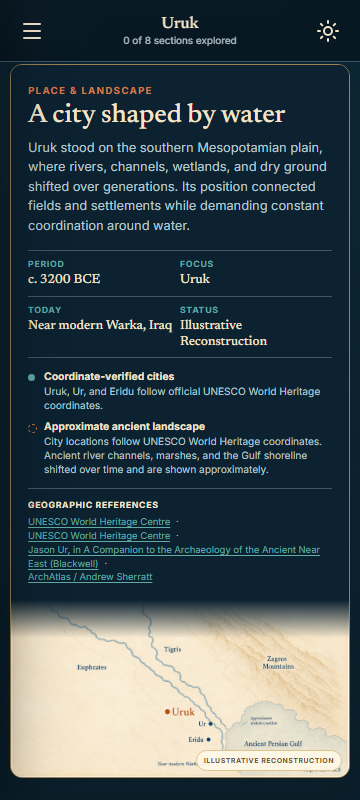
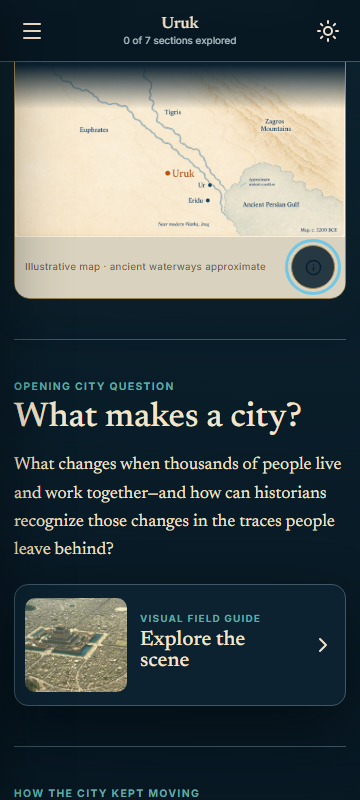
Add compact map context and restore verification

diff --git a/src/learn/learn.css b/src/learn/learn.css
@@ -44,6 +44,9 @@ h1,h2,h3{font-family:Newsreader,Georgia,serif;font-weight:500}
 .evidence-module{display:grid;grid-template-columns:minmax(280px,.9fr) 1.2fr;margin:0;border:1px solid var(--line);border-radius:14px;overflow:hidden;background:var(--surface);box-shadow:var(--shadow)}.evidence-image{position:relative;min-height:340px;background:#d9cdb9}.evidence-image img{width:100%;height:100%;position:absolute;inset:0;object-fit:cover}.evidence-image>span{position:absolute;left:14px;bottom:14px;border-radius:99px;padding:7px 10px;background:var(--teal);color:#fff;text-transform:uppercase;letter-spacing:.1em;font-size:.58rem;font-weight:700}.evidence-module figcaption{padding:28px}.evidence-type{display:flex;align-items:center;gap:8px;color:var(--teal);text-transform:uppercase;letter-spacing:.12em;font-size:.61rem;font-weight:700}.evidence-type svg{width:18px}.evidence-module h3{font-size:2rem;line-height:1.05;margin:12px 0 10px}.evidence-module figcaption>p{font-size:.89rem;line-height:1.6;color:var(--muted)}.evidence-module dl{margin:19px 0 0;border-top:1px solid var(--line)}.evidence-module dl>div{display:grid;grid-template-columns:105px 1fr;gap:12px;padding:8px 0;border-bottom:1px solid var(--line);font-size:.68rem}.evidence-module dt{text-transform:uppercase;letter-spacing:.08em;font-weight:700;color:var(--ink)}.evidence-module dd{margin:0;color:var(--muted);text-transform:capitalize}
 .historical-map{margin:4px 0 0}.historical-map>img{display:block;width:100%;height:auto;border:1px solid color-mix(in srgb,var(--gold) 55%,var(--line));border-radius:16px;background:#f5ead2;box-shadow:0 18px 44px #4b321c12}
 .section-has-historical-map .section-modules{position:relative;display:grid;grid-template-columns:minmax(280px,.72fr) minmax(0,1.28fr);gap:0;overflow:hidden;border:1px solid color-mix(in srgb,var(--gold) 58%,var(--line));border-radius:16px;background:var(--surface);box-shadow:0 18px 44px #4b321c12}.section-has-historical-map .knowledge-block{position:relative;z-index:2;display:block;align-self:stretch;min-width:0;padding:27px 16px 25px 26px;border:0;border-radius:0;background:var(--surface);box-shadow:none}.section-has-historical-map .knowledge-block:after{content:"";position:absolute;z-index:-1;top:0;bottom:0;left:100%;width:86px;background:linear-gradient(90deg,var(--surface) 12%,transparent);pointer-events:none}.section-has-historical-map .knowledge-block dl{display:grid;grid-template-columns:1fr;gap:0;margin:18px 0 0;border:0;border-top:1px solid var(--line);border-radius:0;background:transparent}.section-has-historical-map .knowledge-block dl>div{display:grid;grid-template-columns:82px 1fr;gap:10px;padding:9px 0;border-bottom:1px solid var(--line);background:transparent}.section-has-historical-map .knowledge-block dl>div:last-child{border-bottom:0}.section-has-historical-map .knowledge-block dd{margin:0}.section-has-historical-map .historical-map{z-index:1;min-width:0;margin:0;background:#f5ead2}.section-has-historical-map .historical-map>img{width:100%;height:100%;min-height:340px;object-fit:cover;object-position:right center;border:0;border-radius:0;box-shadow:none}
+.section-has-historical-map .historical-map{display:flex;flex-direction:column;justify-content:center}.section-has-historical-map .historical-map>img{width:100%;height:auto;min-height:0;aspect-ratio:1732/908;object-fit:contain;object-position:center}
+.historical-map__meta{display:flex;align-items:center;justify-content:space-between;gap:10px;padding:8px 10px 9px;background:color-mix(in srgb,#f5ead2 88%,var(--surface));color:#6f573a;font-size:.61rem;line-height:1.25;letter-spacing:.035em}.historical-map__meta>span{min-width:0}.historical-map__meta button,.historical-map__dialog-header button{display:grid;flex:0 0 auto;width:32px;height:32px;padding:0;place-items:center;border:1px solid color-mix(in srgb,var(--gold) 65%,var(--line));border-radius:50%;background:color-mix(in srgb,var(--surface) 88%,transparent);color:var(--archive);cursor:pointer}.historical-map__meta button svg,.historical-map__dialog-header button svg{width:15px;height:15px}
+.historical-map__dialog{width:min(560px,calc(100vw - 32px));max-height:min(720px,calc(100dvh - 32px));padding:0;overflow:hidden;border:1px solid color-mix(in srgb,var(--gold) 58%,var(--line));border-radius:18px;background:var(--surface);color:var(--ink);box-shadow:0 28px 90px #081d2f66}.historical-map__dialog::backdrop{background:#081d2fb3;backdrop-filter:blur(3px)}.historical-map__dialog-header{display:flex;align-items:flex-start;justify-content:space-between;gap:20px;padding:22px 22px 15px;border-bottom:1px solid var(--line)}.historical-map__dialog-header span{color:var(--bronze);text-transform:uppercase;letter-spacing:.13em;font-size:.61rem;font-weight:700}.historical-map__dialog-header h3{margin:5px 0 0;font-size:1.8rem}.historical-map__dialog-body{max-height:calc(min(720px,100dvh - 32px) - 84px);padding:18px 22px 24px;overflow:auto;overscroll-behavior:contain}.historical-map__dialog-body>p{margin:0;color:var(--muted);font-size:.86rem;line-height:1.58}.historical-map__dialog-body dl{display:grid;grid-template-columns:repeat(3,minmax(0,1fr));margin:18px 0 4px;border-block:1px solid var(--line)}.historical-map__dialog-body dl>div{min-width:0;padding:10px 8px 10px 0}.historical-map__dialog-body dt,.historical-map__dialog-body h4{color:var(--teal);text-transform:uppercase;letter-spacing:.09em;font-size:.59rem;font-weight:700}.historical-map__dialog-body dd{margin:4px 0 0;font:500 .88rem/1.3 Newsreader,serif}.historical-map__dialog-body section{padding-top:14px}.historical-map__dialog-body h4{margin:0 0 5px}.historical-map__dialog-body section p{margin:0;color:var(--muted);font-size:.78rem;line-height:1.5}.historical-map__sources ul{display:grid;gap:8px;margin:0;padding:0;list-style:none}.historical-map__sources li{display:grid}.historical-map__sources a{color:var(--teal);font-size:.78rem;font-weight:600;text-underline-offset:2px}.historical-map__sources li span{color:var(--muted);font-size:.66rem}
 .sr-only{position:absolute!important;width:1px!important;height:1px!important;padding:0!important;margin:-1px!important;overflow:hidden!important;clip:rect(0,0,0,0)!important;white-space:nowrap!important;border:0!important}
 .section-prompt{padding-top:60px}.section-prompt .section-heading{padding-bottom:18px;border-bottom:1px solid var(--line)}.prompt{border:1px solid var(--line);background:var(--surface);border-radius:14px;padding:23px;margin:0}.prompt legend,.prompt>label>strong{font:500 1.32rem/1.35 Newsreader,serif;color:var(--ink)}.prompt label{display:flex;gap:11px;align-items:flex-start;padding:10px 0;min-height:44px;font-size:.86rem}.prompt input{width:19px;height:19px;accent-color:var(--teal)}.prompt textarea{width:100%;min-height:120px;border:1px solid var(--line);border-radius:9px;background:var(--page);color:var(--ink);padding:13px;margin:14px 0 6px;font-size:.9rem}.prompt>small{color:var(--muted);font-size:.7rem}.feedback{border-left:3px solid var(--teal);background:color-mix(in srgb,var(--teal) 10%,var(--surface));padding:12px 14px;line-height:1.5;font-size:.8rem}
 .resume-banner{width:min(980px,calc(100% - 56px));margin:18px auto -20px;padding:13px 16px;background:var(--surface);border:1px solid var(--line);border-radius:10px;display:flex;align-items:center;justify-content:space-between;box-shadow:var(--shadow)}.resume-banner span{display:block;color:var(--muted);font-size:.78rem}
@@ -59,3 +62,5 @@ h1,h2,h3{font-family:Newsreader,Georgia,serif;font-weight:500}
 .card-reveal{scroll-margin-top:76px}
 @media(max-width:700px){.section-has-historical-map .section-modules{grid-template-columns:1fr}.section-has-historical-map .knowledge-block{padding:22px 19px 16px}.section-has-historical-map .knowledge-block:after{z-index:1;top:100%;bottom:auto;left:0;width:100%;height:44px;background:linear-gradient(180deg,var(--surface),transparent)}.section-has-historical-map .historical-map{margin-top:-1px}.section-has-historical-map .historical-map>img{height:auto;min-height:0;object-fit:contain}}
 @media(max-width:620px){.historical-map{margin-inline:-4px}.historical-map>img{border-radius:12px}.section-has-historical-map .historical-map{margin-inline:0}.section-has-historical-map .historical-map>img{border-radius:0}}
+@media(max-width:620px){.historical-map__dialog{width:100%;max-width:none;max-height:86dvh;margin:auto 0 0;border-width:1px 0 0;border-radius:18px 18px 0 0}.historical-map__dialog-header{padding:18px 17px 13px}.historical-map__dialog-body{max-height:calc(86dvh - 78px);padding:16px 17px 24px}.historical-map__dialog-body dl{grid-template-columns:1fr}.historical-map__dialog-body dl>div{display:grid;grid-template-columns:72px 1fr;gap:8px;padding:8px 0;border-bottom:1px solid var(--line)}.historical-map__dialog-body dl>div:last-child{border-bottom:0}.historical-map__dialog-body dd{margin:0}}
+@media(max-width:620px){.historical-map__meta button{width:44px;height:44px}.historical-map__meta button svg{width:17px;height:17px}}

diff --git a/tests/learn/LearnApp.test.tsx b/tests/learn/LearnApp.test.tsx
@@ -25,7 +25,7 @@ describe('Learn route and interactions', () => {
   it('parses the stable route and rejects unrelated paths', () => { expect(lessonIdFromPath('/learn/lesson.uruk.first-city')).toBe('lesson.uruk.first-city'); expect(lessonIdFromPath('/legacy')).toBeNull(); });
   it('renders an invalid lesson state', () => { render(<LearnApp lessonId="lesson.unknown" />); expect(screen.getByRole('heading', { name: /archive entry isn’t available/i })).toBeTruthy(); });
   it('renders the decoded-asset contract and typed editorial modules', async () => { const gateway = new TestGateway(); render(<LearnApp lessonId="lesson.uruk.first-city" gatewayFactory={async () => gateway} />); expect(await screen.findByRole('heading', { name: 'Uruk: Life in an Early City' })).toBeTruthy(); const hero = document.querySelector('.hero-image'); expect(hero?.getAttribute('aria-label')).toMatch(/aerial evidence-based reconstruction/i); expect(hero?.getAttribute('style')).toContain('/images/places/uruk-reconstruction.webp'); const probe = document.querySelector('.hero-probe'); expect(probe?.getAttribute('src')).toBe('/images/places/uruk-reconstruction.webp'); expect(probe?.getAttribute('width')).toBe('1600'); expect(probe?.getAttribute('height')).toBe('800'); expect(screen.getByText('City at a glance')).toBeTruthy(); expect(screen.getAllByText('From the evidence room')).toHaveLength(2); expect(screen.getByText(/records and ideas could travel beyond one person’s memory/i)).toBeTruthy(); expect(screen.queryByRole('heading', { name: 'Connections' })).toBeNull(); expect(screen.getByRole('heading', { name: 'World Check' })).toBeTruthy(); });
-  it('renders the generated historical map inside the opening content card', async () => { const gateway = new TestGateway(); render(<LearnApp lessonId="lesson.uruk.first-city" gatewayFactory={async () => gateway} />); await screen.findByRole('heading', { name: 'Uruk: Life in an Early City' }); const image=screen.getByAltText(/Illustrated map of the southern Mesopotamian plain/i);expect(image.getAttribute('src')).toBe('/images/maps/uruk-southern-mesopotamia-map.webp');expect(image.getAttribute('width')).toBe('1732');expect(image.getAttribute('height')).toBe('908');expect(image.closest('[data-section-id]')?.getAttribute('data-section-id')).toBe('section.uruk.masthead');expect(screen.queryByRole('button',{name:'A city shaped by water'})).toBeNull(); });
+  it('renders the generated historical map and opens its canonical context disclosure', async () => { const gateway = new TestGateway(); render(<LearnApp lessonId="lesson.uruk.first-city" gatewayFactory={async () => gateway} />); await screen.findByRole('heading', { name: 'Uruk: Life in an Early City' }); const image=screen.getByAltText(/Illustrated map of the southern Mesopotamian plain/i);expect(image.getAttribute('src')).toBe('/images/maps/uruk-southern-mesopotamia-map.webp');expect(image.getAttribute('width')).toBe('1732');expect(image.getAttribute('height')).toBe('908');expect(image.closest('[data-section-id]')?.getAttribute('data-section-id')).toBe('section.uruk.masthead');expect(screen.getByText('Illustrative map · ancient waterways approximate')).toBeTruthy();expect(image.closest('figure')?.getAttribute('aria-describedby')).toBe('module.uruk.southern-mesopotamia-map-summary');const trigger=screen.getByRole('button',{name:/About this map/i});await userEvent.click(trigger);const dialog=screen.getByRole('dialog');expect(dialog.hasAttribute('open')).toBe(true);expect(screen.getByText(/official UNESCO World Heritage coordinates/i)).toBeTruthy();expect(screen.getByText(/Near modern Warka, Iraq/i)).toBeTruthy();expect(screen.getAllByRole('link').some((link)=>link.getAttribute('href')==='https://whc.unesco.org/en/list/1481/maps/')).toBe(true);fireEvent.keyDown(dialog,{key:'Escape'});expect(dialog.hasAttribute('open')).toBe(false);expect(document.activeElement).toBe(trigger); });
   it('opens the native Explore the Scene field guide', async () => { const gateway = new TestGateway(); render(<LearnApp lessonId="lesson.uruk.first-city" gatewayFactory={async () => gateway} />); await screen.findByRole('heading', { name: 'Uruk: Life in an Early City' }); const title = screen.getByText('Explore the scene'); const details = title.closest('details'); expect(details?.hasAttribute('open')).toBe(false); await userEvent.click(title); expect(details?.hasAttribute('open')).toBe(true); expect(screen.getByText('Monumental precinct')).toBeTruthy(); });
   it('offers retry after progress load failure', async () => { const gateway = new TestGateway(); gateway.load.mockRejectedValueOnce(new Error('offline')).mockResolvedValueOnce(gateway.state); render(<LearnApp lessonId="lesson.uruk.first-city" gatewayFactory={async () => gateway} />); await screen.findByRole('button', { name: 'Retry loading progress' }); await userEvent.click(screen.getByRole('button', { name: 'Retry loading progress' })); expect(await screen.findByRole('heading', { name: 'Uruk: Life in an Early City' })).toBeTruthy(); expect(gateway.load).toHaveBeenCalledTimes(2); });
   it('closes the mobile drawer with Escape and returns focus', async () => { const gateway = new TestGateway(); render(<LearnApp lessonId="lesson.uruk.first-city" gatewayFactory={async () => gateway} />); await screen.findByRole('heading', { name: 'Uruk: Life in an Early City' }); const open = screen.getByRole('button', { name: 'Open journey' }); await userEvent.click(open); expect(screen.getByRole('dialog', { name: 'World History journey' })).toBeTruthy(); fireEvent.keyDown(document, { key: 'Escape' }); expect(open).toBe(document.activeElement); });

diff --git a/src/learn/HistoricalMapModule.tsx b/src/learn/HistoricalMapModule.tsx
@@ -1,7 +1,72 @@
-import type { HistoricalMapModule as HistoricalMapData, MediaAsset } from '../domains/contracts';
+import { Info, X } from 'lucide-react';
+import { useRef } from 'react';
+import type { HistoricalMapModule as HistoricalMapData, MediaAsset, Source } from '../domains/contracts';
 
-export function HistoricalMapModule({ module, media }: { module: HistoricalMapData; media: MediaAsset }) {
-  return <figure className="historical-map" aria-label={module.title}>
+type HistoricalMapModuleProps = {
+  module: HistoricalMapData;
+  media: MediaAsset;
+  sources: Source[];
+};
+
+export function HistoricalMapModule({ module, media, sources }: HistoricalMapModuleProps) {
+  const triggerRef = useRef<HTMLButtonElement>(null);
+  const dialogRef = useRef<HTMLDialogElement>(null);
+  const summaryId = `${module.id}-summary`;
+  const dialogTitleId = `${module.id}-dialog-title`;
+  const dialogDescriptionId = `${module.id}-dialog-description`;
+
+  const openDialog = () => {
+    const dialog = dialogRef.current;
+    if (!dialog) return;
+    if (typeof dialog.showModal === 'function') dialog.showModal();
+    else {
+      dialog.setAttribute('open', '');
+      dialog.querySelector<HTMLButtonElement>('button')?.focus();
+    }
+  };
+
+  const closeDialog = () => {
+    const dialog = dialogRef.current;
+    if (!dialog) return;
+    if (typeof dialog.close === 'function') dialog.close();
+    else {
+      dialog.removeAttribute('open');
+      triggerRef.current?.focus();
+    }
+  };
+
+  return <figure className="historical-map" aria-label={module.title} aria-describedby={summaryId}>
     <img src={media.path} alt={media.alt} width="1732" height="908" loading="lazy" decoding="async" />
+    <figcaption className="historical-map__meta">
+      <span>{module.compactLabel}</span>
+      <button ref={triggerRef} type="button" onClick={openDialog} aria-label={`About this map: ${module.title}`}>
+        <Info aria-hidden="true" />
+      </button>
+    </figcaption>
+    <p id={summaryId} className="sr-only">{module.accessibleSummary}</p>
+    <dialog
+      ref={dialogRef}
+      className="historical-map__dialog"
+      aria-labelledby={dialogTitleId}
+      aria-describedby={dialogDescriptionId}
+      onClose={() => triggerRef.current?.focus()}
+      onKeyDown={(event) => { if (event.key === 'Escape') { event.preventDefault(); closeDialog(); } }}
+    >
+      <div className="historical-map__dialog-header">
+        <div><span>{module.eyebrow}</span><h3 id={dialogTitleId}>{module.title}</h3></div>
+        <button type="button" onClick={closeDialog} aria-label="Close map information"><X aria-hidden="true" /></button>
+      </div>
+      <div id={dialogDescriptionId} className="historical-map__dialog-body">
+        <p>{module.body}</p>
+        <dl>
+          <div><dt>Period</dt><dd>{module.periodLabel}</dd></div>
+          <div><dt>Focus</dt><dd>{module.focusPlace}</dd></div>
+          <div><dt>Today</dt><dd>{module.modernContext}</dd></div>
+        </dl>
+        <section><h4>Coordinate-verified city locations</h4><p>{module.coordinateNote}</p></section>
+        <section><h4>Approximate ancient landscape</h4><p>{module.uncertaintyNote}</p></section>
+        <section className="historical-map__sources"><h4>Geographic references</h4><ul>{sources.map((source) => <li key={source.id}><a href={source.url} target="_blank" rel="noreferrer">{source.title}</a><span>{source.publisher}</span></li>)}</ul></section>
+      </div>
+    </dialog>
   </figure>;
 }

diff --git a/tests/content/validation.test.ts b/tests/content/validation.test.ts
@@ -3,6 +3,6 @@ describe('content validation',()=>{it('accepts canonical Uruk fixtures',()=>expe
 
 it('allows each chapter to begin at entry position zero',()=>{const fixture=structuredClone(urukContent);fixture.journeys[0].chapters.push({id:'chapter.world-history.second',title:'Second chapter',position:1,entries:[{id:'entry.world-history.second-start',lessonId:'lesson.uruk.first-city',position:0,required:true,framing:'A valid new chapter start'}]});expect(validateContent(fixture).errors).not.toContain(expect.stringMatching(/duplicate journey entry position/))});
 
-it('validates the typed Uruk historical map and generated raster asset',()=>{const lesson=urukContent.lessons.find((item)=>item.id==='lesson.uruk.first-city')!;const module=lesson.sections.flatMap((section)=>section.modules).find((item)=>item.type==='historical-map')!;expect(LessonModuleSchema.safeParse(module).success).toBe(true);if(module.type!=='historical-map')throw new Error('historical map missing');expect(module.id).toBe('module.uruk.southern-mesopotamia-map');expect(module.mediaId).toBe('media.uruk.southern-mesopotamia-map');expect(module.uncertaintyNote).toMatch(/shown approximately/i)});
+it('validates the typed Uruk historical map and generated raster asset',()=>{const lesson=urukContent.lessons.find((item)=>item.id==='lesson.uruk.first-city')!;const module=lesson.sections.flatMap((section)=>section.modules).find((item)=>item.type==='historical-map')!;expect(LessonModuleSchema.safeParse(module).success).toBe(true);if(module.type!=='historical-map')throw new Error('historical map missing');expect(module.id).toBe('module.uruk.southern-mesopotamia-map');expect(module.mediaId).toBe('media.uruk.southern-mesopotamia-map');expect(module.compactLabel).toMatch(/illustrative map/i);expect(module.coordinateNote).toMatch(/UNESCO World Heritage coordinates/i);expect(module.uncertaintyNote).toMatch(/shown approximately/i)});
 
 it('detects a missing local map asset',()=>{const fixture=structuredClone(urukContent);const map=fixture.media.find((item)=>item.id==='media.uruk.southern-mesopotamia-map')!;map.path='/images/maps/missing-map.webp';expect(validateContent(fixture).errors.join(' ')).toMatch(/missing local media asset \/images\/maps\/missing-map\.webp/)});

diff --git a/content/uruk.ts b/content/uruk.ts
@@ -40,6 +40,8 @@ export const lessons: Lesson[] = [
         body: 'Uruk stood on the southern Mesopotamian plain, where rivers, channels, wetlands, and dry ground shifted over generations. Its position connected fields and settlements while demanding constant coordination around water.',
         mediaId: 'media.uruk.southern-mesopotamia-map', periodLabel: 'c. 3200 BCE', focusPlace: 'Uruk', modernContext: 'Near modern Warka, Iraq',
         accessibleSummary: 'Uruk lies northwest of Ur and Eridu on the southern Mesopotamian plain. The Euphrates system runs along the western side, the Tigris system lies farther east toward the Zagros highlands, and a shifting wetland and Gulf zone lies to the southeast.',
+        compactLabel: 'Illustrative map · ancient waterways approximate',
+        coordinateNote: 'Uruk, Ur, and Eridu are placed using official UNESCO World Heritage coordinates.',
         uncertaintyNote: 'City locations follow UNESCO World Heritage coordinates. Ancient river channels, marshes, and the Gulf shoreline shifted over time and are shown approximately.',
         depictionStatus: 'illustrative-reconstruction', claimIds: ['claim.uruk.wetland-landscape'], sourceIds: ['source.unesco.ahwar', 'source.unesco.ahwar-maps', 'source.ur.southern-mesopotamia', 'source.archatlas.uruk-ur'],
       }] },

diff --git a/src/domains/contracts.ts b/src/domains/contracts.ts
@@ -14,7 +14,8 @@ const BaseModule = z.object({ id: StableId, claimIds: z.array(StableId).default(
 export const HistoricalMapModuleSchema = BaseModule.extend({
   type: z.literal('historical-map'), eyebrow: z.string().min(1), title: z.string().min(1), body: z.string().min(1), mediaId: StableId,
   periodLabel: z.string().min(1), focusPlace: z.string().min(1), modernContext: z.string().min(1), accessibleSummary: z.string().min(1),
-  uncertaintyNote: z.string().min(1), depictionStatus: z.enum(['evidence-based-reconstruction', 'illustrative-reconstruction']),
+  compactLabel: z.string().min(1), coordinateNote: z.string().min(1), uncertaintyNote: z.string().min(1),
+  depictionStatus: z.enum(['evidence-based-reconstruction', 'illustrative-reconstruction']),
 });
 export const LessonModuleSchema = z.discriminatedUnion('type', [
   BaseModule.extend({ type: z.literal('prose'), body: z.string().min(1) }),

diff --git a/src/learn/LearnApp.tsx b/src/learn/LearnApp.tsx
@@ -68,7 +68,8 @@ function Module({ module, state, onAttempt }: ModuleProps) {
   }
   if (module.type === 'historical-map') {
     const media = mediaById.get(module.mediaId)!;
-    return <HistoricalMapModule module={module} media={media} />;
+    const sources = module.sourceIds.map((sourceId) => urukContent.sources.find((source) => source.id === sourceId)!).filter(Boolean);
+    return <HistoricalMapModule module={module} media={media} sources={sources} />;
   }
   const prompt = promptById.get(module.promptId)!;
   const answer = state.responses[prompt.id] ?? '';
